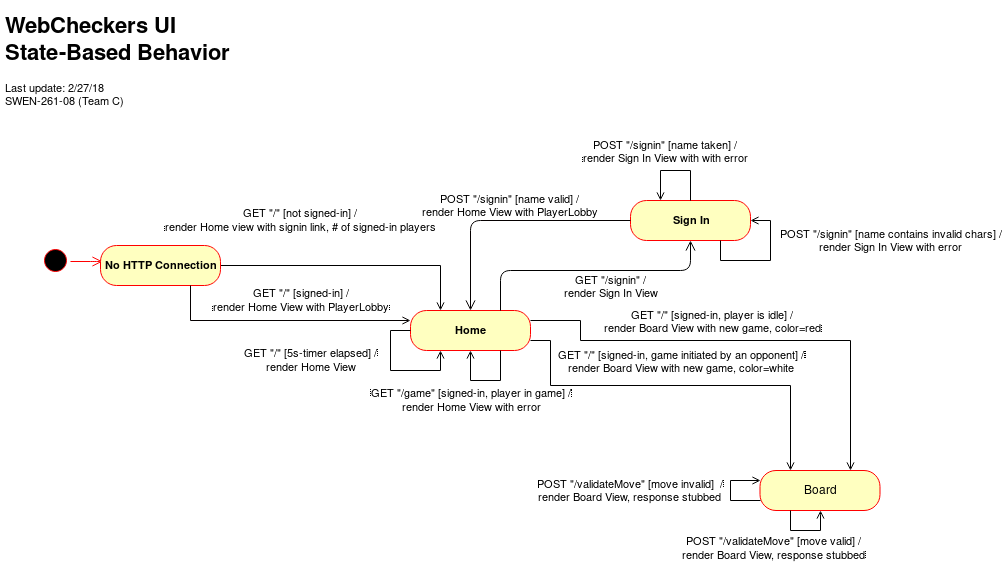
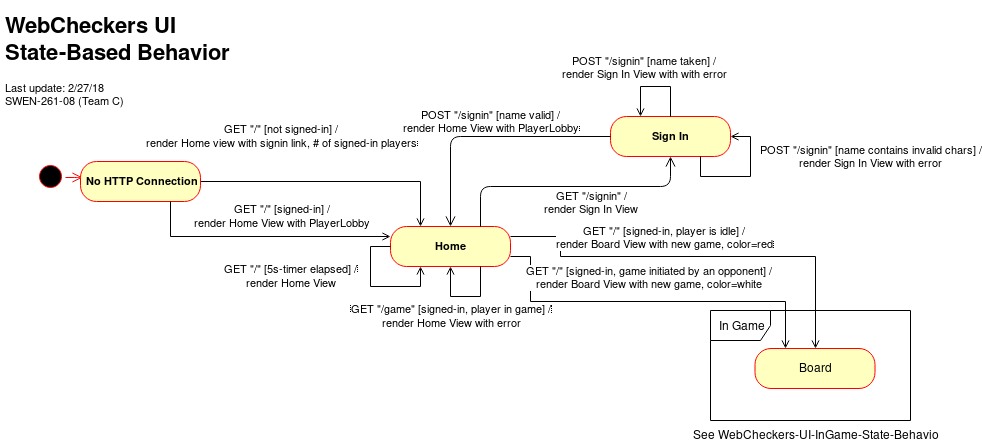
Brought new diagrams into design doc

Changed region(s): [[0.0305, 0.2332, 1.0, 1.0], [0.0, 0.0291, 0.2444, 0.2332], [0.5804, 0.1166, 0.7332, 0.1749]]

diff --git a/docs/DesignDoc.md b/docs/DesignDoc.md
@@ -119,6 +119,8 @@ with the WebCheckers application.
 
 ![The WebCheckers Web Interface Statechart](WebCheckers-UI-State-Behavior.png)
 
+![The WebCheckers In-Game Web Interface Statechart](WebCheckers-UI-InGame-State-Behavior.png)
+
 > Provide a summary of the application's user interface.  Describe, from the user's perspective, the flow of the pages in the web application.
 
 
